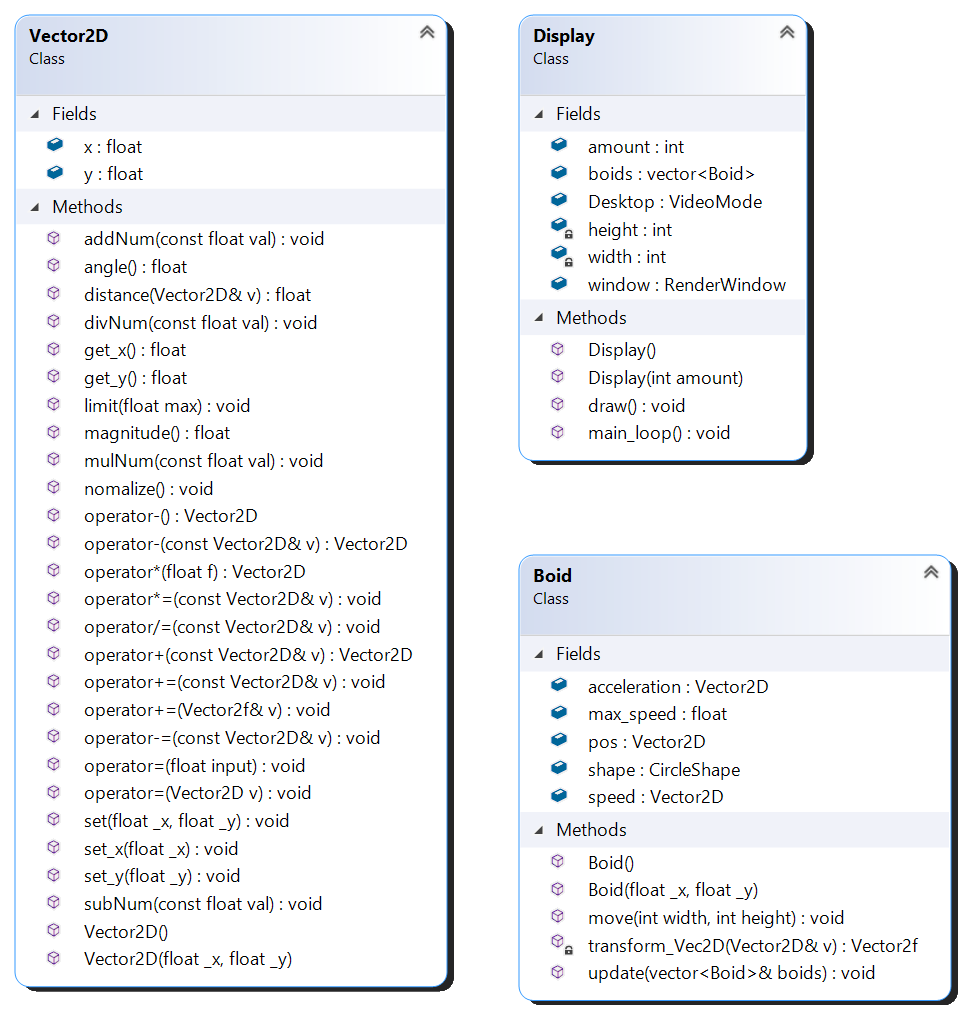
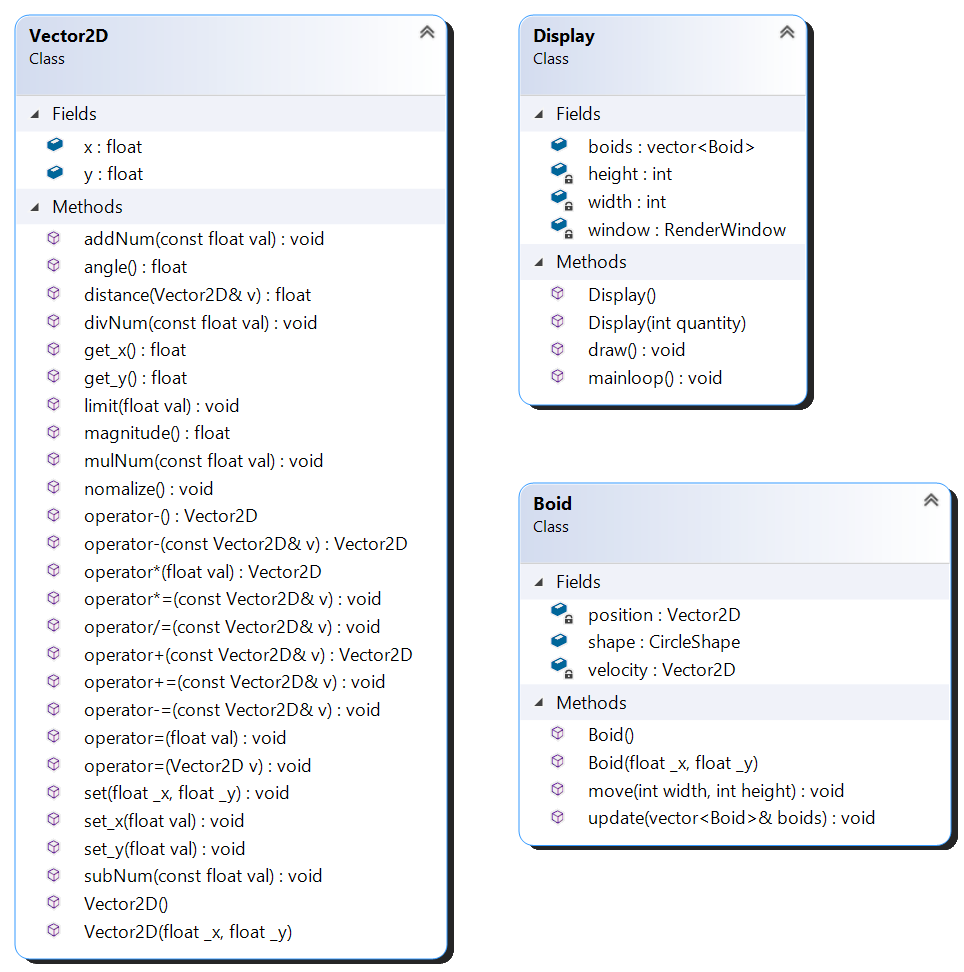
further layouting

diff --git a/Boids/Display.cpp b/Boids/Display.cpp
@@ -7,7 +7,7 @@ Display::Display() {
 	height = desktop.height;
 
 	// set the quantity of boids
-	quantity = 30;
+	int quantity = 30;
 
 	// create the window
 	window.create(sf::VideoMode(width, height, desktop.bitsPerPixel), "Boids", sf::Style::None);
@@ -19,14 +19,11 @@ Display::Display() {
 	}
 }
 
-Display::Display(int _quantity) {
+Display::Display(int quantity) {
 	// getting the width and height of the screen
 	sf::VideoMode desktop = sf::VideoMode::getDesktopMode();
 	width = floor(desktop.width/1);
 	height = floor(desktop.height/1);
-
-	// set the quantity of boids
-	quantity = _quantity;
 
 	// create the window
 	window.create(sf::VideoMode(width, height, desktop.bitsPerPixel), "Boids", sf::Style::None);
@@ -44,7 +41,7 @@ void Display::draw() {
 	window.clear(sf::Color::Black);
 
 	// DRAW
-	for (int i = 0; i < quantity; i++) {
+	for (size_t i = 0; i < boids.size(); i++) {
 		// draw every boid
 		window.draw(boids[i].shape);
 	}
@@ -67,7 +64,7 @@ void Display::mainloop() {
 		}
 
 		// update the position and movement of each boid
-		for (int i = 0; i < boids.size(); i++) {
+		for (size_t i = 0; i < boids.size(); i++) {
 			boids[i].update_movement(boids); // update the movement
 			boids[i].update_position(width, height); // update the position
 		}

diff --git a/Boids/Display.hpp b/Boids/Display.hpp
@@ -14,7 +14,6 @@ class Display {
 	private:
 		int width;
 		int height;
-		int quantity;
 
 		// window to render on the screen
 		sf::RenderWindow window;
